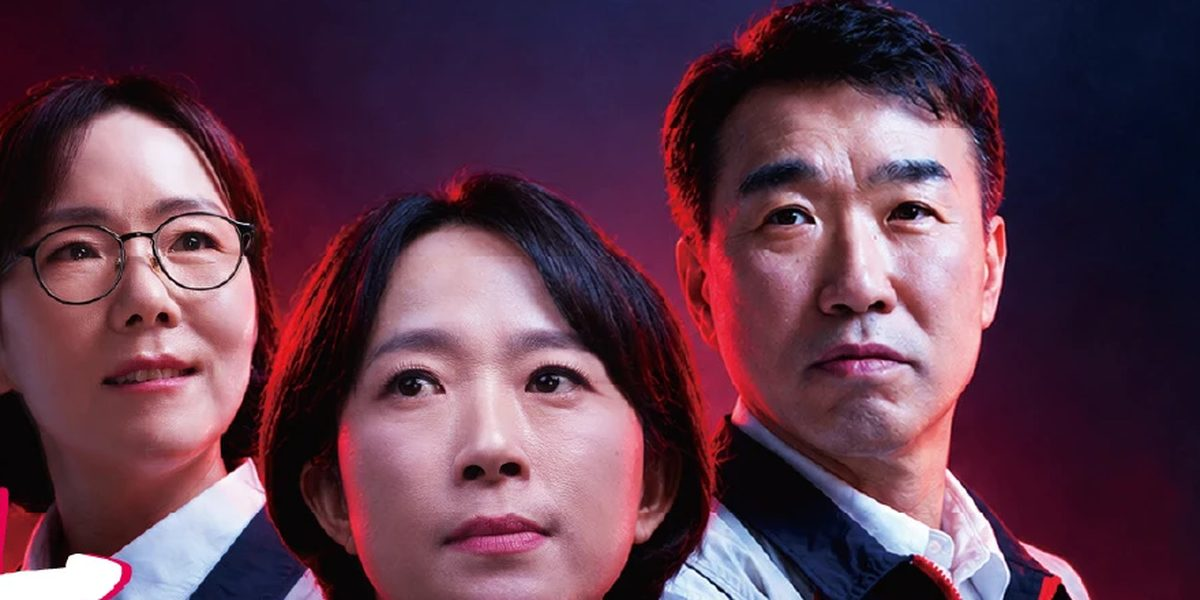
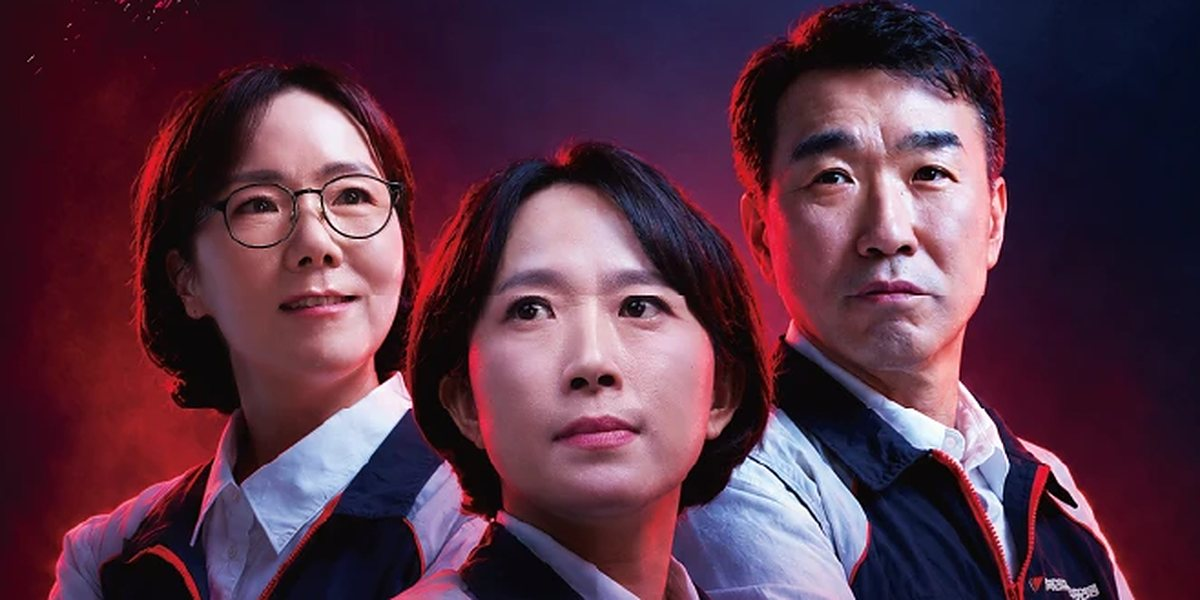
선거 페이지: 3번 후보조 사진을 덜 가깝게 (포스터에서 다시 자름)
Claude-Session: https://claude.ai/code/session_01NhcVR8myNJVXGP4V4AUhGD

diff --git a/kctu2026/index.html b/kctu2026/index.html
@@ -286,7 +286,7 @@ const SLATES = [
     ],
   },
   {
-    n: 3, slogan: "벽을 깨자", logo: "slogan3.svg?v=2", photo: "img/team3.jpg?v=1",
+    n: 3, slogan: "벽을 깨자", logo: "slogan3.svg?v=2", photo: "img/team3.jpg?v=2",
     mottos: ["세상을 바꾸는 당당한 방법 - 민주노총당 창당!", "벽! 벽! 벽을 깨야 민주노총 새로워진다"],
     people: [
       ["김민영", "전교조", ["전) 전교조 청주초등지회장, 진보정당 후원 관련 3개월 정직", "전) 공교육멈춤의 날 교육부 앞 집회 총괄", "현) 전교조 충북지부장"]],
